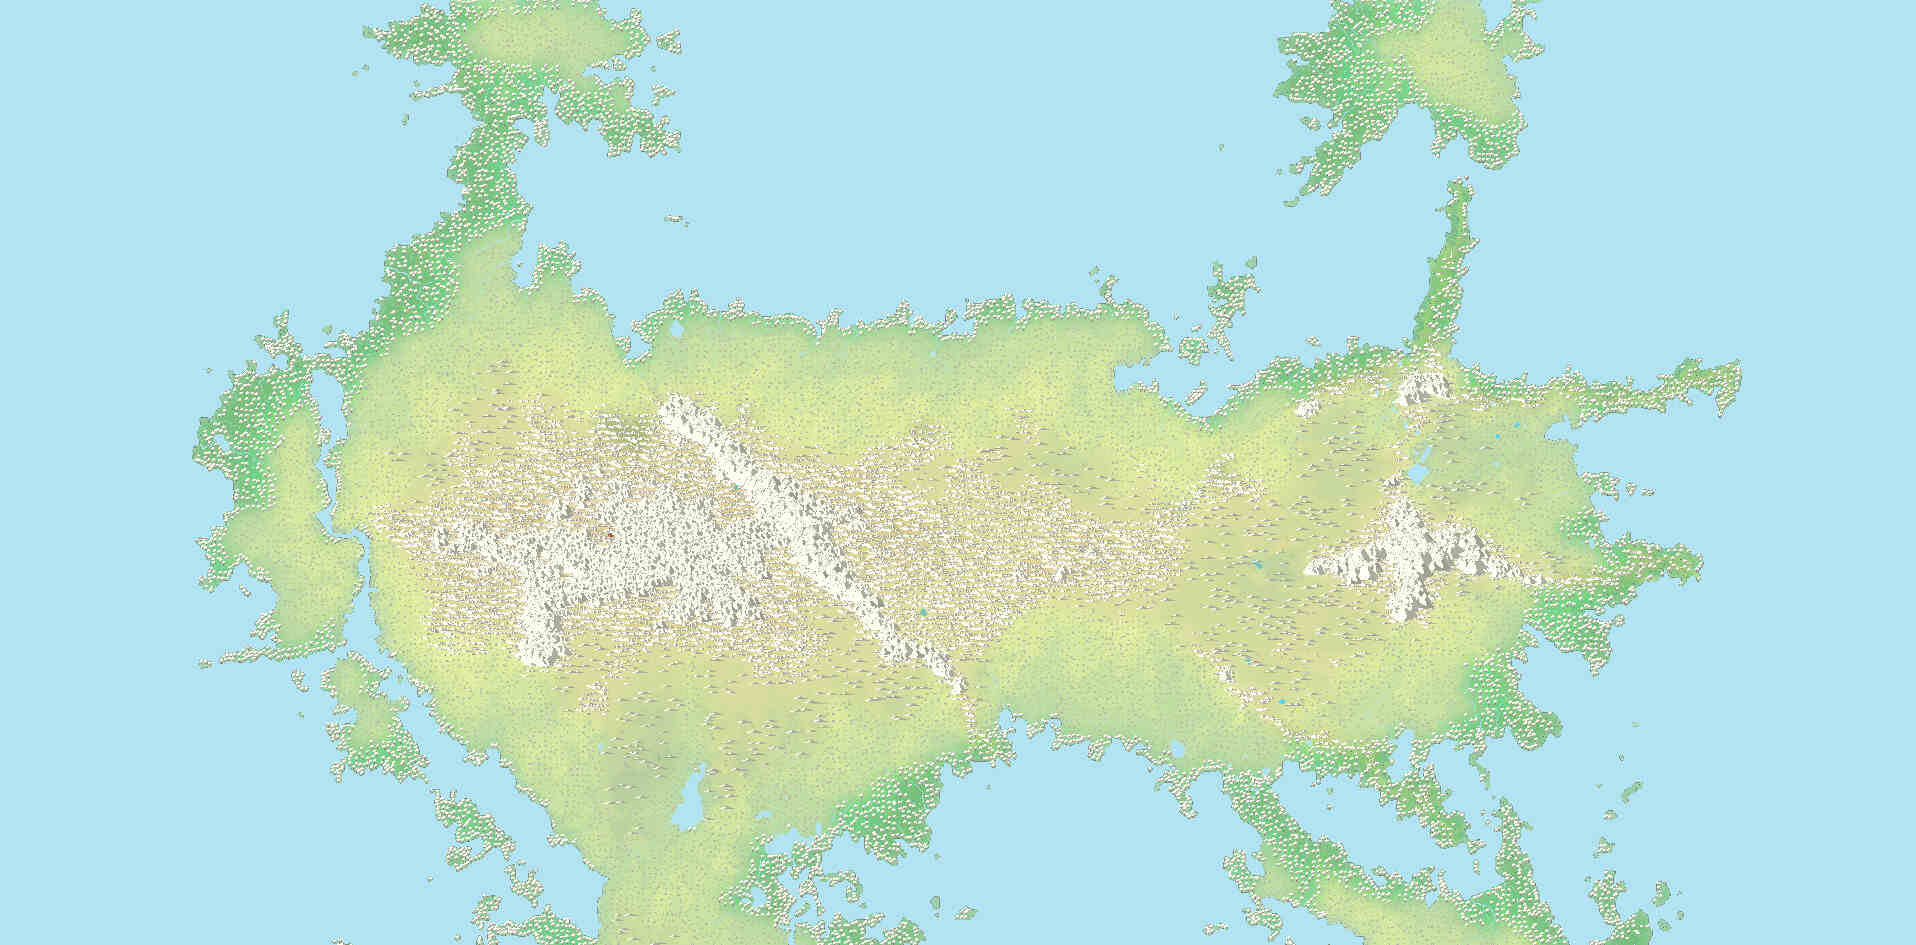
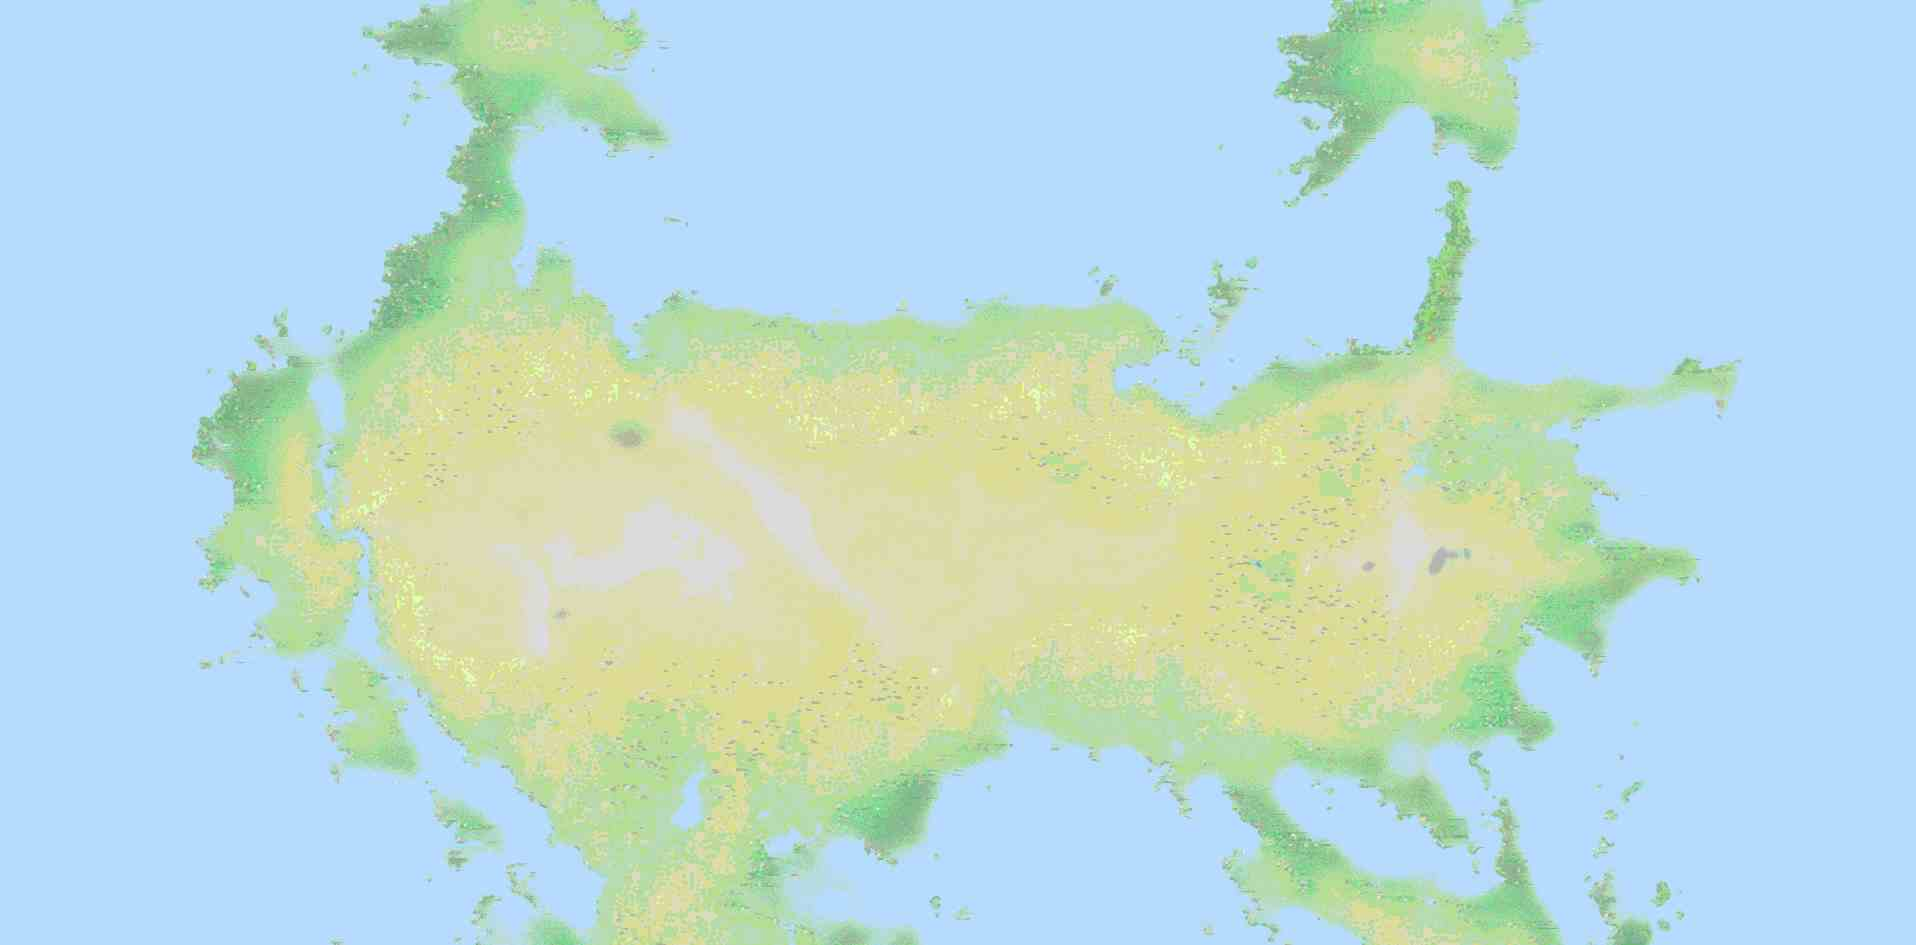
Header.2.css improvement

Changed region(s): [[0.0924, 0.0, 0.9238, 1.0], [0.2771, 0.2455, 0.4003, 0.3989], [0.2463, 0.3683, 0.2771, 0.3989]]

diff --git a/Header.2.css b/Header.2.css
@@ -1,5 +1,12 @@
 body {
-  background-image: url("map.jpg");
+  background-image: -webkit-image-set(
+    url("map.webp") type("image/webp"),
+    url("map.jpg") type("image/jpeg")
+  );
+  background-image: image-set(
+    url("map.webp") type("image/webp"),
+    url("map.jpg") type("image/jpeg")
+  );
   text-align: justify;
   font-family: "TeX Gyre Schola", serif; 
 }